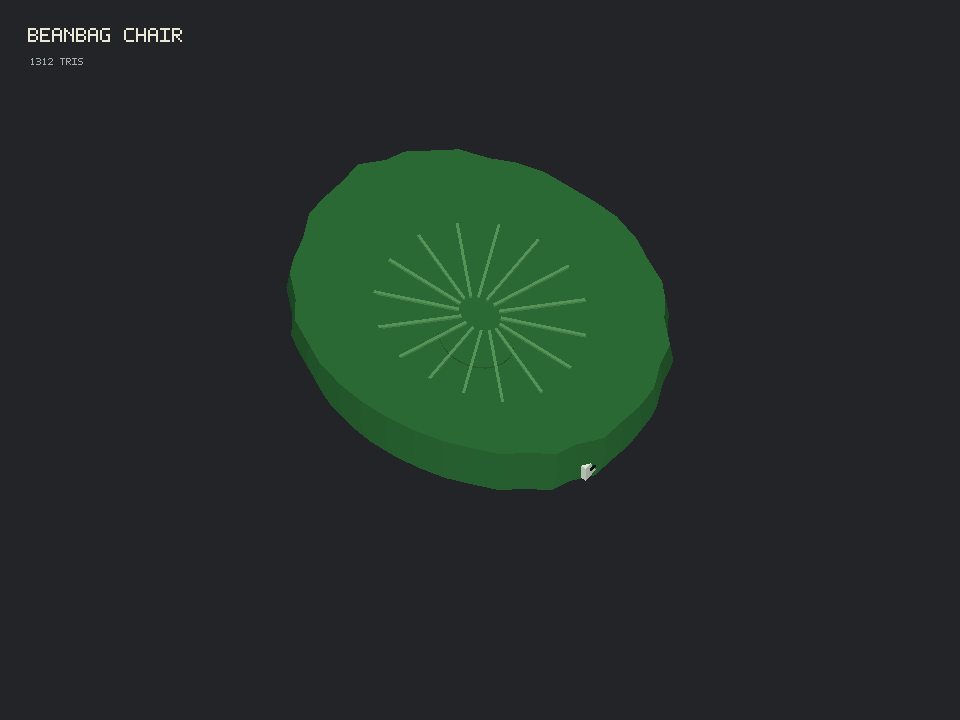
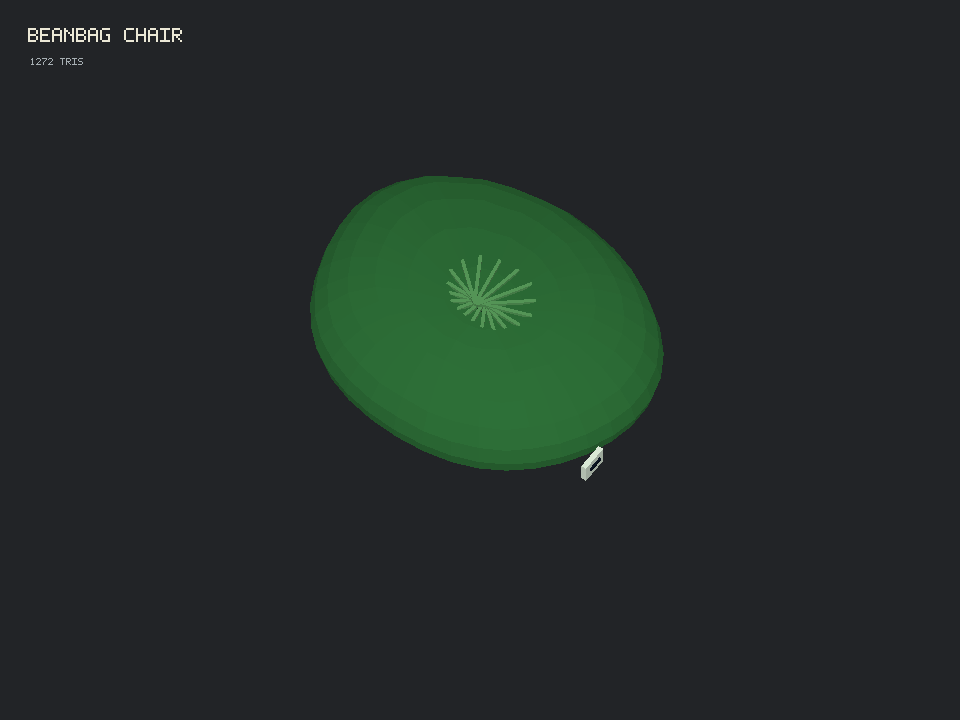
feat: sculpt beanbag from uv sphere

Changed region(s): [[0.2812, 0.1833, 0.7188, 0.7028], [0.4062, 0.3361, 0.5938, 0.5194]]

diff --git a/tools/create_psx_dvr_assets.py b/tools/create_psx_dvr_assets.py
@@ -1009,49 +1009,62 @@ def build_beanbag_asset() -> Asset:
         manifest_extra={
             "seat_role": "player_sittable",
             "shape_construction": "single_sculpted_body",
+            "sculpt_base": "uv_sphere",
             "fabric_style": "sculpted_green_velour",
         },
-        notes=["Player-sittable lazy sofa generated as a single sculpted cushion body with a central sink."],
+        notes=["Player-sittable lazy sofa generated from a UV-sphere body with procedural sculpt deformations."],
     )
     b = MeshBuilder(asset)
-    segments = 40
-    top_rings = [0.16, 0.30, 0.44, 0.58, 0.72, 0.86, 0.98, 1.08]
-    side_levels = [(0.86, 1.10), (0.68, 1.12), (0.50, 1.08), (0.32, 1.02), (0.18, 0.92)]
-    positions: list[tuple[float, float, float]] = [(0.0, -0.12, 0.56)]
-    normals: list[tuple[float, float, float]] = [(0.0, 0.0, 1.0)]
-    uvs: list[tuple[float, float]] = [(0.5, 0.5)]
+    segments = 36
+    rings = 14
+    positions: list[tuple[float, float, float]] = []
+    normals: list[tuple[float, float, float]] = []
+    uvs: list[tuple[float, float]] = []
     indices: list[int] = []
 
-    def beanbag_point(theta: float, radius: float, z_override: float | None = None, scale_override: float | None = None) -> tuple[float, float, float]:
-        rib = 1.0 + 0.025 * math.sin(theta * 18.0)
-        lopsided = 1.0 + 0.045 * math.sin(theta * 2.0 + 0.7)
-        scale = scale_override if scale_override is not None else radius
-        x = math.cos(theta) * 1.10 * scale * rib
-        y = -0.08 + math.sin(theta) * 0.91 * scale * lopsided
-        if z_override is not None:
-            z = z_override
-        else:
-            rim_lift = 0.43 * (radius**1.55)
-            sink = 0.12 * math.exp(-((radius - 0.34) ** 2) / 0.030)
-            folds = 0.018 * math.sin(theta * 12.0 + radius * 5.0) * radius
-            z = 0.56 + rim_lift - sink + folds
-        return (x, y, z)
+    def add_sculpted_vertex(theta: float, phi: float, u: float, v: float) -> int:
+        sin_phi = math.sin(phi)
+        cos_phi = math.cos(phi)
+        lopsided_x = 1.0 + 0.035 * math.sin(theta * 3.0 + 0.4)
+        lopsided_y = 1.0 + 0.030 * math.cos(theta * 2.0 - 0.2)
+        x = math.cos(theta) * sin_phi * 1.14 * lopsided_x
+        y = -0.05 + math.sin(theta) * sin_phi * 0.96 * lopsided_y
+        z = 0.62 + cos_phi * 0.52
 
+        top_weight = max(0.0, cos_phi)
+        center_sink = math.exp(-(sin_phi * sin_phi) / 0.115) * (top_weight ** 0.55)
+        rim_puff = math.exp(-((sin_phi - 0.73) ** 2) / 0.050) * (0.35 + top_weight * 0.65)
+        radial_fold = math.sin(theta * 14.0 + sin_phi * 5.0) * sin_phi * (top_weight ** 1.15)
+        side_lump = math.sin(theta * 7.0 + 0.6) * max(0.0, -cos_phi) * 0.012
+        z = z - 0.30 * center_sink + 0.08 * rim_puff + 0.026 * radial_fold + side_lump
+
+        if cos_phi < -0.62:
+            floor_mix = min(1.0, (-cos_phi - 0.62) / 0.38)
+            z = z * (1.0 - floor_mix) + (0.13 + 0.025 * sin_phi) * floor_mix
+
+        nx = math.cos(theta) * sin_phi / 1.14
+        ny = math.sin(theta) * sin_phi / 0.96
+        nz = cos_phi / 0.52
+        length = math.sqrt(nx * nx + ny * ny + nz * nz) or 1.0
+        positions.append((x, y, z))
+        normals.append((nx / length, ny / length, nz / length))
+        uvs.append((u, v))
+        return len(positions) - 1
+
+    top_index = add_sculpted_vertex(0.0, 0.0, 0.5, 0.0)
     ring_indices: list[list[int]] = []
-    for radius in top_rings:
+    for ring_id in range(1, rings):
+        phi = math.pi * ring_id / rings
         ring: list[int] = []
         for idx in range(segments):
             theta = math.tau * idx / segments
-            point = beanbag_point(theta, radius)
-            positions.append(point)
-            normals.append((0.0, 0.0, 1.0))
-            uvs.append((0.5 + math.cos(theta) * radius * 0.44, 0.5 + math.sin(theta) * radius * 0.44))
-            ring.append(len(positions) - 1)
+            ring.append(add_sculpted_vertex(theta, phi, idx / segments, ring_id / rings))
         ring_indices.append(ring)
+    bottom_index = add_sculpted_vertex(0.0, math.pi, 0.5, 1.0)
 
     first_ring = ring_indices[0]
     for idx in range(segments):
-        indices.extend((0, first_ring[(idx + 1) % segments], first_ring[idx]))
+        indices.extend((top_index, first_ring[(idx + 1) % segments], first_ring[idx]))
     for ring_idx in range(len(ring_indices) - 1):
         inner = ring_indices[ring_idx]
         outer = ring_indices[ring_idx + 1]
@@ -1061,35 +1074,20 @@ def build_beanbag_asset() -> Asset:
             c = outer[(idx + 1) % segments]
             d = outer[idx]
             indices.extend((a, b2, c, a, c, d))
+    last_ring = ring_indices[-1]
+    for idx in range(segments):
+        indices.extend((last_ring[idx], last_ring[(idx + 1) % segments], bottom_index))
 
-    previous = ring_indices[-1]
-    for level, (z, scale) in enumerate(side_levels):
-        ring = []
-        for idx in range(segments):
-            theta = math.tau * idx / segments
-            point = beanbag_point(theta, 1.08, z_override=z, scale_override=scale)
-            positions.append(point)
-            normals.append((math.cos(theta), math.sin(theta), 0.15))
-            uvs.append((idx / segments, 0.15 + level * 0.12))
-            ring.append(len(positions) - 1)
-        for idx in range(segments):
-            a = previous[idx]
-            b2 = previous[(idx + 1) % segments]
-            c = ring[(idx + 1) % segments]
-            d = ring[idx]
-            indices.extend((a, b2, c, a, c, d))
-        previous = ring
-
-    b.add_primitive("beanbag_sculpted_body", 0, positions, normals, uvs, indices)
-    b.add_elliptical_cylinder_z("beanbag_center_sink", (0.0, -0.12, 0.575), 0.25, 0.20, 0.016, 24, 0)
-    for idx in range(16):
-        theta = math.tau * idx / 16.0
-        x = math.cos(theta) * 0.42
-        y = -0.08 + math.sin(theta) * 0.34
+    b.add_primitive("beanbag_uv_sphere_sculpted_body", 0, positions, normals, uvs, indices)
+    b.add_elliptical_cylinder_z("beanbag_center_sink", (0.0, -0.12, 0.855), 0.20, 0.16, 0.016, 24, 1)
+    for idx in range(18):
+        theta = math.tau * idx / 18.0
+        x = math.cos(theta) * 0.36
+        y = -0.08 + math.sin(theta) * 0.29
         b.add_box_z_rotated(
             f"beanbag_soft_radial_fold_{idx:02d}",
-            (x, y, 0.80 + 0.07 * math.sin(theta + 0.3)),
-            (0.018, 0.54, 0.018),
+            (x, y, 0.935 + 0.035 * math.sin(theta + 0.3)),
+            (0.022, 0.68, 0.022),
             theta - math.pi / 2,
             2,
         )
@@ -1565,6 +1563,8 @@ def report_outputs() -> None:
         raise ValueError(f"beanbag_chair seat role mismatch: {beanbag.get('seat_role')}")
     if beanbag.get("shape_construction") != "single_sculpted_body":
         raise ValueError(f"beanbag_chair shape construction mismatch: {beanbag.get('shape_construction')}")
+    if beanbag.get("sculpt_base") != "uv_sphere":
+        raise ValueError(f"beanbag_chair sculpt base mismatch: {beanbag.get('sculpt_base')}")
     if beanbag.get("fabric_style") != "sculpted_green_velour":
         raise ValueError(f"beanbag_chair fabric style mismatch: {beanbag.get('fabric_style')}")
     if not (250 <= rug["triangles"] <= 1200):

diff --git a/tools/test_psx_dvr_assets.py b/tools/test_psx_dvr_assets.py
@@ -73,13 +73,14 @@ class PsxDvrAssetsTest(unittest.TestCase):
         beanbag = self.assets["beanbag_chair"]
         self.assertEqual(beanbag["seat_role"], "player_sittable")
         self.assertEqual(beanbag["shape_construction"], "single_sculpted_body")
+        self.assertEqual(beanbag["sculpt_base"], "uv_sphere")
         self.assertEqual(beanbag["fabric_style"], "sculpted_green_velour")
         self.assertEqual(beanbag["texture_size"], [256, 256])
         self.assertGreaterEqual(beanbag["triangles"], 900)
         self.assertLessEqual(beanbag["triangles"], 2200)
         self.assertGreater(beanbag["dimensions"][0], self.assets["crt_tv"]["dimensions"][0] * 0.75)
         self.assertGreater(beanbag["dimensions"][1], self.assets["crt_tv"]["dimensions"][1] * 0.75)
-        self.assertIn("beanbag_sculpted_body", beanbag["source_parts"])
+        self.assertIn("beanbag_uv_sphere_sculpted_body", beanbag["source_parts"])
         self.assertIn("beanbag_center_sink", beanbag["source_parts"])
         self.assertNotIn("beanbag_left_arm_cushion", beanbag["source_parts"])
         self.assertNotIn("beanbag_back_cushion", beanbag["source_parts"])

diff --git a/docs/superpowers/plans/2026-05-27-crt-tv-set-assets.md b/docs/superpowers/plans/2026-05-27-crt-tv-set-assets.md
@@ -4,7 +4,7 @@
 
 **Goal:** Revise the CRT into a large-bezel box TV with convex black glass, remove the integrated set asset, and add separate bookshelf, desk, player-sittable beanbag chair, and disc rug assets using the shared green/pale/deep-blue palette.
 
-**Architecture:** Update `tools/create_psx_dvr_assets.py` with large-bezel CRT geometry, convex black glass materials, bookshelf/desk/beanbag/rug geometry, asset size metadata, and manifest/report checks. Update `tools/test_psx_dvr_assets.py` to enforce no integrated set, new assets, CRT reference metadata, single-body beanbag metadata, disc rug metadata, and relative size ordering.
+**Architecture:** Update `tools/create_psx_dvr_assets.py` with large-bezel CRT geometry, convex black glass materials, bookshelf/desk/UV-sphere-sculpted beanbag/rug geometry, asset size metadata, and manifest/report checks. Update `tools/test_psx_dvr_assets.py` to enforce no integrated set, new assets, CRT reference metadata, UV-sphere single-body beanbag metadata, disc rug metadata, and relative size ordering.
 
 **Tech Stack:** Python 3 standard library, glTF 2.0 binary `.glb`, generated PNG textures, existing software preview renderer.
 
@@ -42,6 +42,7 @@ self.assertEqual(assets["crt_tv"]["control_layout"], "bottom_button_row")
 self.assertIn("beanbag_chair", assets)
 self.assertEqual(assets["beanbag_chair"]["seat_role"], "player_sittable")
 self.assertEqual(assets["beanbag_chair"]["shape_construction"], "single_sculpted_body")
+self.assertEqual(assets["beanbag_chair"]["sculpt_base"], "uv_sphere")
 self.assertEqual(assets["beanbag_chair"]["fabric_style"], "sculpted_green_velour")
 self.assertIn("disc_rug", assets)
 self.assertEqual(assets["disc_rug"]["surface_role"], "floor_rug")
@@ -56,7 +57,7 @@ self.assertEqual(manifest["palette"]["primary"], ["#3FA943", "#E8F8E4", "#0C1725
 
 Run: `python -m unittest tools.test_psx_dvr_assets -v`
 
-Expected: fails because current output lacks large-bezel CRT metadata, single-body beanbag metadata, or `disc_rug`.
+Expected: fails because current output lacks large-bezel CRT metadata, UV-sphere beanbag metadata, or `disc_rug`.
 
 ## Task 2: Generator Extension
 
@@ -66,7 +67,7 @@ Modify `tools/create_psx_dvr_assets.py` to:
 
 - Change CRT geometry, screen materials, and texture to a large-bezel box CRT with convex black glass and subtle green/pale reflections.
 - Remove `build_integrated_set_asset()` and omit `psx_dvr_crt_set` from generation, verification, report, and manifest.
-- Add `build_bookshelf_asset()`, `build_desk_asset()`, `build_beanbag_asset()`, and `build_disc_rug_asset()`.
+- Add `build_bookshelf_asset()`, `build_desk_asset()`, `build_beanbag_asset()` from a sculpted UV-sphere mesh, and `build_disc_rug_asset()`.
 - Include `dimensions`, `screen_state`, and palette metadata in the manifest.
 - Extend `verify_outputs()` and `report_outputs()` to include console, disc, CRT, bookshelf, desk, beanbag, and disc rug only.
 
@@ -99,6 +100,6 @@ Expected: all commands exit 0.
 
 ## Self-Review
 
-- Spec coverage: large-bezel black-glass CRT, no integrated set, bookshelf, desk, single-body beanbag, disc rug, size ordering, palette, manifest, previews, Blender scene, and validation are covered.
+- Spec coverage: large-bezel black-glass CRT, no integrated set, bookshelf, desk, UV-sphere single-body beanbag, disc rug, size ordering, palette, manifest, previews, Blender scene, and validation are covered.
 - Red-flag scan: no incomplete-work markers remain.
 - Type consistency: paths and asset keys match the design spec.

diff --git a/docs/superpowers/specs/2026-05-27-crt-tv-set-assets-design.md b/docs/superpowers/specs/2026-05-27-crt-tv-set-assets-design.md
@@ -56,7 +56,7 @@ The CRT screen should read as inactive convex black glass, not an active pale gr
 - Triangle budget: 900-2,200 triangles.
 - Texture budget: one 256x256 nearest-filter texture atlas plus flat materials.
 - Material read: sculpted green velour/fabric with soft radial folds and a small side tag.
-- Construction: one sculpted cushion body mesh with a central sink; avoid blocky separate arm/back cushion construction.
+- Construction: start from a UV-sphere style latitude/longitude mesh, then sculpt it into a flattened lazy-sofa form by compressing the bottom, sinking the center, puffing the rim, and adding radial folds. Avoid blocky separate arm/back cushion construction.
 - Collision: simple sit-volume collision proxy.
 - Export: GLB, texture PNG, preview PNG, and Blender asset.
 
@@ -87,7 +87,7 @@ The CRT uses a chunky early-2000s desktop TV silhouette: deep blue-black shell, 
 
 The bookshelf and desk should use the same restricted palette: deep casing/shadows, pale highlights, and green labels or worn paint accents. They should feel like part of the same PSX-era room rather than realistic furniture.
 
-The beanbag chair uses a rounded low-poly sculpted cushion silhouette with a depressed center and radial fabric folds. It should read as one soft object, not a furniture assembly.
+The beanbag chair uses a rounded low-poly UV-sphere-derived cushion silhouette with a depressed center and radial fabric folds. It should read as one soft object, not a furniture assembly.
 
 The disc rug uses a flat circular mat, dark rim, center label, green swirl fields, and original non-branded markings inspired by game discs and colored vinyl.
 